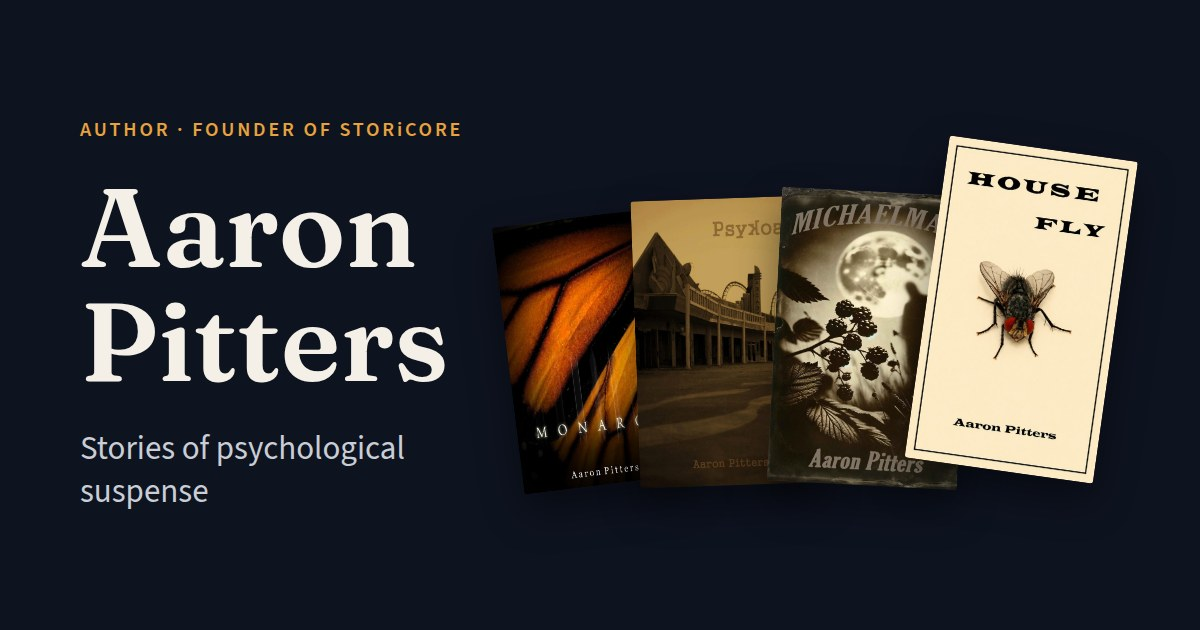
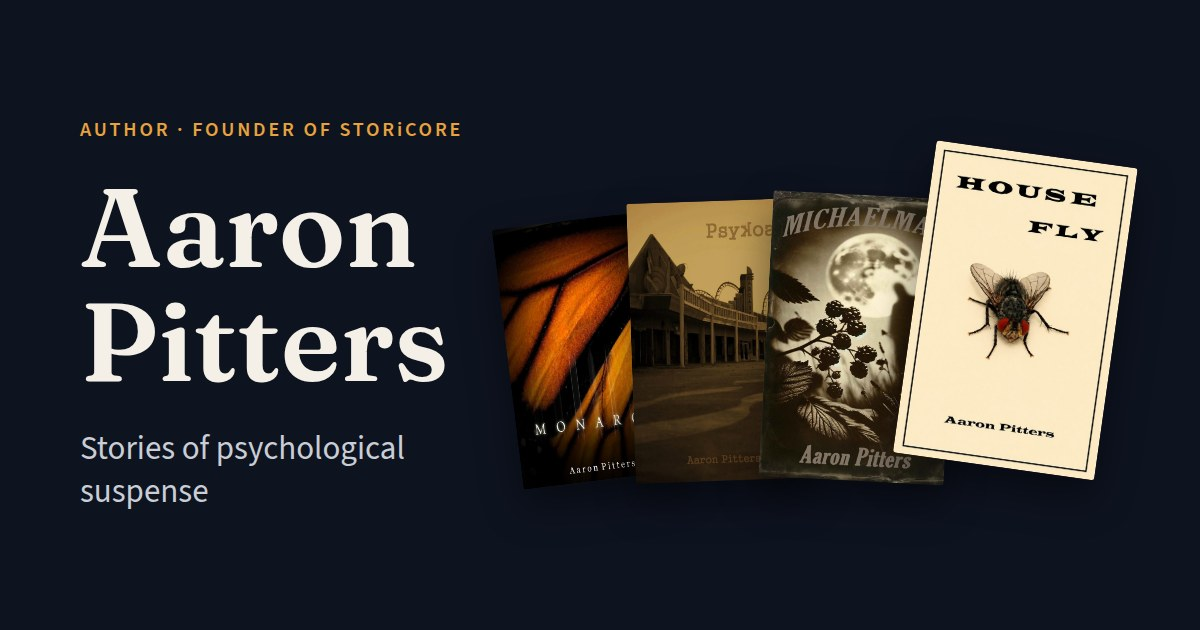
Use the reshaped House Fly cover (v3) and size it as the front cover
- index.html: the fan, Newest release, Books entry and JSON-LD image now use
  images/covers/house-fly-v3.jpg, width/height 600x932 (its real size; the
  file is used as uploaded, not re-encoded).
- The fan's front cover is 186 units wide, slightly larger than Michaelmas
  (170) as in the original design; the fan is 558 units wide and the --u
  formulas are updated to match. The edge-smoothing CSS is unchanged.
- images/share/home.jpg rebuilt with the new cover (1200x630, 83 KB).
- images/covers/house-fly-v2.jpg deleted; nothing references it.

Claude-Session: https://claude.ai/code/session_01Mc25hjC1tJW6AFWGpcaB7K

Changed region(s): [[0.4317, 0.2111, 0.9558, 0.7841], [0.5858, 0.6635, 0.6167, 0.6937]]

diff --git a/index.html b/index.html
@@ -61,7 +61,7 @@
           "@id": "https://aaronpitters.com/#person"
         },
         "bookFormat": "https://schema.org/EBook",
-        "image": "https://aaronpitters.com/images/covers/house-fly-v2.jpg",
+        "image": "https://aaronpitters.com/images/covers/house-fly-v3.jpg",
         "url": "https://a.co/d/hQEEdMC",
         "sameAs": [
           "https://www.barnesandnoble.com/w/house-fly-aaron-pitters/1147055454",
@@ -470,10 +470,10 @@
 
     /* The fan of four covers. Each image keeps its own shape (height: auto), because the
        covers are not all the same proportions. Every size is a multiple of --u, which is 1px at full size
-       and shrinks only when the screen is too narrow for the fan (it is 542 units wide, and
+       and shrinks only when the screen is too narrow for the fan (it is 558 units wide, and
        the calc leaves room for the page padding). Below 640px it is capped at 60% (0.6px). */
     .fan {
-      --u: min(1px, calc((100vw - 92px) / 542));
+      --u: min(1px, calc((100vw - 92px) / 558));
       flex: 0 1 auto;
       display: flex;
       align-items: flex-end;
@@ -500,7 +500,7 @@
     .fan .c2 { width: calc(160 * var(--u)); transform: rotate(-2deg); margin-right: calc(-36 * var(--u)); z-index: 1; }
     .fan .c3 { width: calc(170 * var(--u)); transform: rotate(3deg);  margin-right: calc(-36 * var(--u)); z-index: 2; }
     .fan .c4 {
-      width: calc(170 * var(--u));
+      width: calc(186 * var(--u));
       transform: rotate(8deg) translateY(calc(-12 * var(--u)));
       z-index: 3;
       box-shadow: 0 22px 48px rgba(0,0,0,.55);
@@ -668,7 +668,7 @@
     @media (max-width: 639px) {
       /* The fan is scaled to about 60%, and a little less on the narrowest screens, so it fits
          without side-scrolling. The tilted corners reach into the page padding. */
-      .fan { --u: min(.6px, calc((100vw - 32px) / 542)); padding-left: 0; padding-right: 0; }
+      .fan { --u: min(.6px, calc((100vw - 32px) / 558)); padding-left: 0; padding-right: 0; }
       /* Smaller cover, sitting above the text. */
       .book-cover { flex: 0 0 auto; width: 160px; }
     }
@@ -726,7 +726,7 @@
           <img class="c1" src="/images/covers/monarch.jpg" alt="Monarch cover" width="600" height="960">
           <img class="c2" src="/images/covers/psykosis.jpg" alt="Psykosis cover" width="600" height="962">
           <img class="c3" src="/images/covers/michaelmas.jpg" alt="Michaelmas cover" width="600" height="925">
-          <img class="c4" src="/images/covers/house-fly-v2.jpg" alt="House Fly cover" width="600" height="1024">
+          <img class="c4" src="/images/covers/house-fly-v3.jpg" alt="House Fly cover" width="600" height="932">
         </div>
       </div>
 
@@ -757,7 +757,7 @@
       </div>
 
       <div class="container newest">
-        <img class="newest-cover" src="/images/covers/house-fly-v2.jpg" alt="House Fly cover" width="600" height="1024">
+        <img class="newest-cover" src="/images/covers/house-fly-v3.jpg" alt="House Fly cover" width="600" height="932">
         <div class="newest-text">
           <p class="eyebrow">Newest release</p>
           <h2>House Fly</h2>
@@ -791,7 +791,7 @@
       </div>
 
       <article class="book" aria-labelledby="book-house-fly">
-        <img class="book-cover" src="/images/covers/house-fly-v2.jpg" alt="House Fly cover" width="600" height="1024">
+        <img class="book-cover" src="/images/covers/house-fly-v3.jpg" alt="House Fly cover" width="600" height="932">
         <div class="book-text">
           <p class="eyebrow">Newest</p>
           <h2 id="book-house-fly">House Fly</h2>
